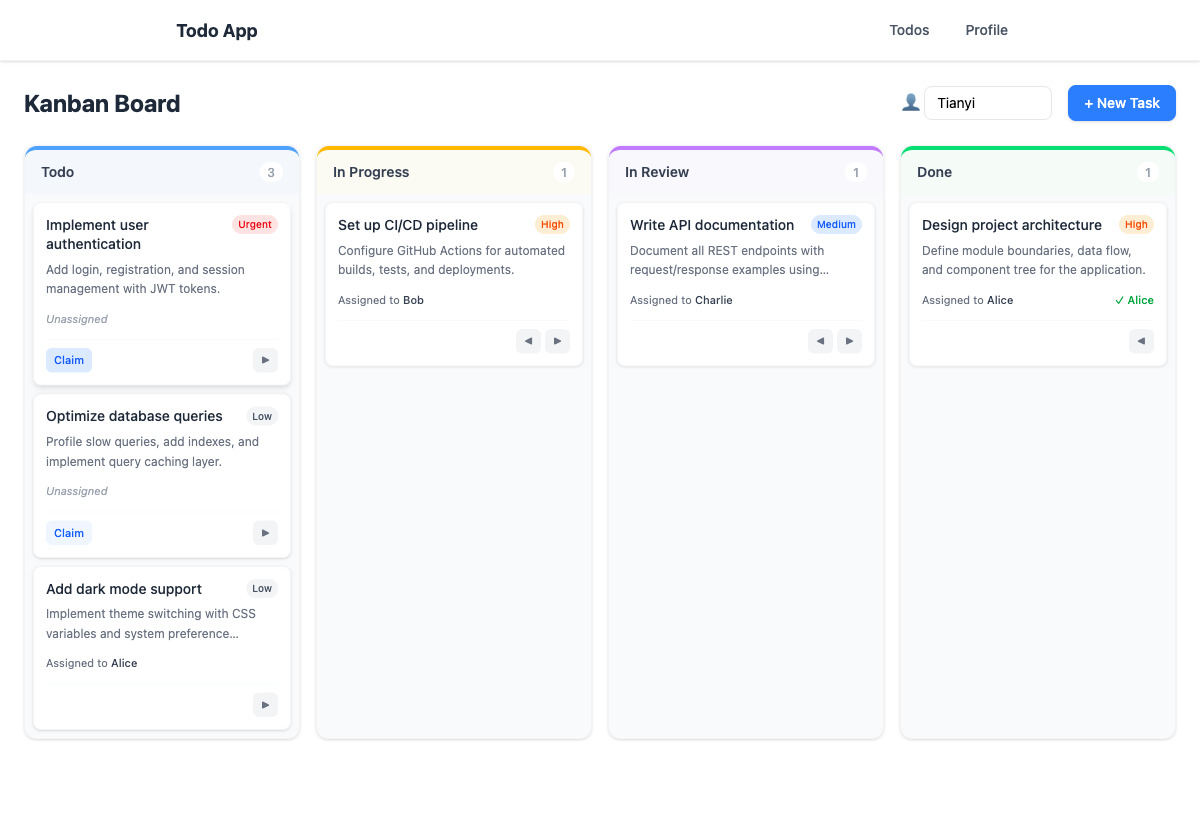
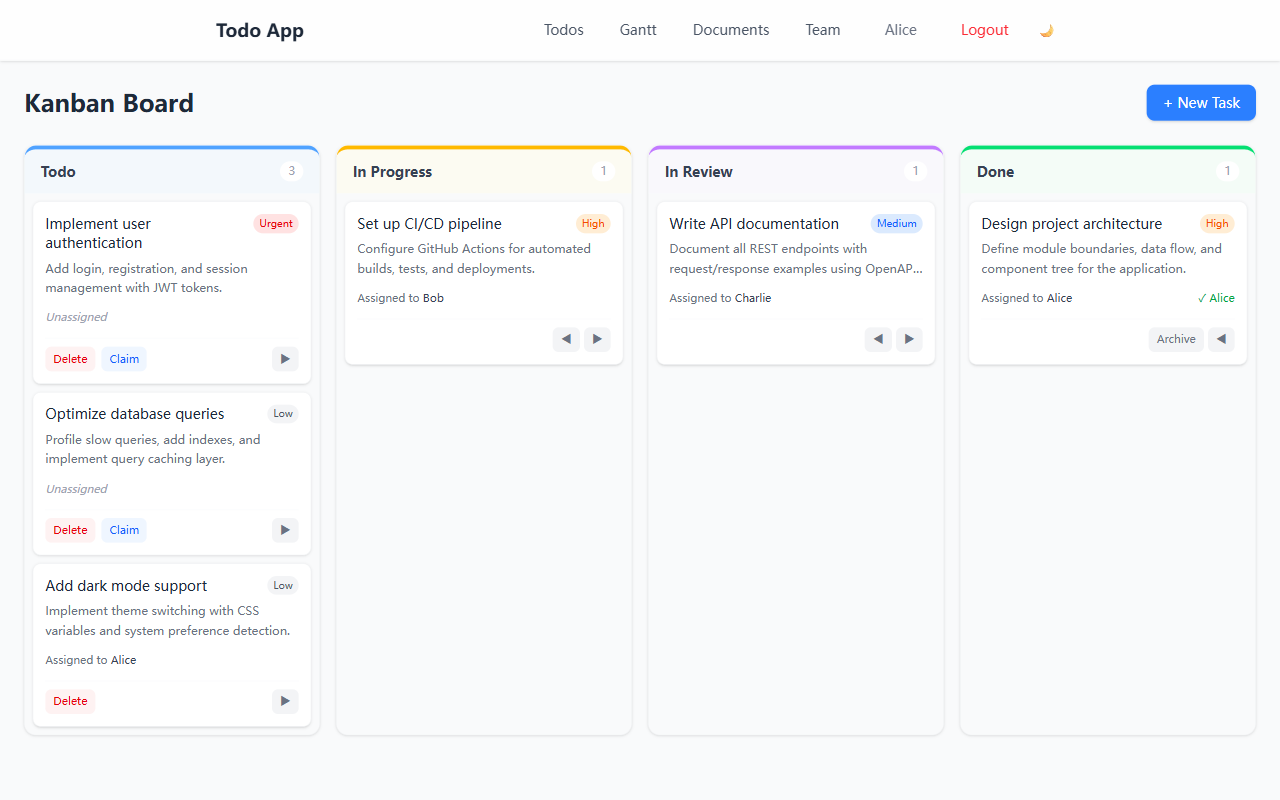
docs: refactor README.md

diff --git a/README.md b/README.md
@@ -1,59 +1,151 @@
-# Development
+# Todo List — 全栈看板应用
 
-Your new jumpstart project includes basic organization with an organized `assets` folder and a `components` folder.
-If you chose to develop with the router feature, you will also have a `views` folder.
+基于 Dioxus 0.7 构建的全栈（Fullstack）任务管理应用，支持看板视图、甘特图、团队协作和 Markdown 文档编辑。
 
-```
-project/
-├─ assets/ # Any assets that are used by the app should be placed here
-├─ src/
-│  ├─ main.rs # The entrypoint for the app. It also defines the routes for the app.
-│  ├─ components/
-│  │  ├─ mod.rs # Defines the components module
-│  │  ├─ hero.rs # The Hero component for use in the home page
-│  │  ├─ echo.rs # The echo component uses server functions to communicate with the server
-│  ├─ views/ # The views each route will render in the app.
-│  │  ├─ mod.rs # Defines the module for the views route and re-exports the components for each route
-│  │  ├─ blog.rs # The component that will render at the /blog/:id route
-│  │  ├─ home.rs # The component that will render at the / route
-├─ Cargo.toml # The Cargo.toml file defines the dependencies and feature flags for your project
-```
+## 功能特性
 
-### Automatic Tailwind (Dioxus 0.7+)
+- **看板视图** — 拖拽任务卡片在 "待办 / 进行中 / 审查中 / 已完成" 四列之间流转
+- **甘特图** — 按时间线可视化任务排期
+- **团队管理** — 成员目录，支持认领和分配任务
+- **Markdown 文档** — 类 Notion 的文档编辑器，支持表格、任务列表、删除线
+- **用户系统** — 注册 / 登录，JWT 鉴权，个人资料编辑
+- **暗色模式** — 一键切换，偏好持久化到 localStorage
 
-As of Dioxus 0.7, there no longer is a need to manually install tailwind. Simply `dx serve` and you're good to go!
+## 截图
 
-Automatic tailwind is supported by checking for a file called `tailwind.css` in your app's manifest directory (next to Cargo.toml). To customize the file, use the dioxus.toml:
+### 看板视图
 
-```toml
-[application]
-tailwind_input = "my.css"
-tailwind_output = "assets/out.css"
-```
+![看板视图](kanban-board-final.png)
 
-### Tailwind Manual Install
+### 团队管理
 
-To use tailwind plugins or manually customize tailwind, you can can install the Tailwind CLI and use it directly.
+![团队管理](team-page-screenshot.png)
 
-1. Install npm: https://docs.npmjs.com/downloading-and-installing-node-js-and-npm
-2. Install the Tailwind CSS CLI: https://tailwindcss.com/docs/installation/tailwind-cli
-3. Run the following command in the root of the project to start the Tailwind CSS compiler:
+## 技术栈
+
+| 层 | 技术 |
+| --- | --- |
+| 前端 | Dioxus 0.7 (WASM) + Tailwind CSS |
+| 后端 | Axum 0.8 (Dioxus Fullstack) |
+| 数据库 | SQLite (sqlx 0.8) |
+| 鉴权 | Argon2id 密码哈希 + JWT (HS256) |
+| Markdown | pulldown-cmark |
+
+## 本地开发
+
+### 前置要求
+
+- Rust 1.85+
+- wasm32-unknown-unknown target
 
 ```bash
-npx @tailwindcss/cli -i ./input.css -o ./assets/tailwind.css --watch
+rustup target add wasm32-unknown-unknown
 ```
 
-### Serving Your App
+### 安装 Dioxus CLI
 
-Run the following command in the root of your project to start developing with the default platform:
+```bash
+cargo install dioxus-cli --version 0.7.1
+```
+
+### 启动开发服务器
 
 ```bash
 dx serve --platform web
 ```
 
-To run for a different platform, use the `--platform platform` flag. E.g.
+浏览器打开 `http://localhost:8080` 即可。
+
+首次启动会自动创建 `todo_list.db` 数据库并填充种子数据：
+
+- 3 个用户：Alice / Bob / Charlie（密码均为 `password123`）
+- 6 个示例任务
+
+## Docker 一键部署
+
+适用于 Linux 服务器的傻瓜式部署，内置 Nginx 反向代理。
+
+### 1. 克隆代码
+
 ```bash
-dx serve --platform desktop
+git clone <your-repo-url> && cd todo_list
 ```
 
+### 2. 配置 JWT 密钥
 
+```bash
+echo "JWT_SECRET=$(openssl rand -base64 32)" > .env
+```
+
+### 3. 启动
+
+```bash
+docker compose up -d --build
+```
+
+首次构建约 10-15 分钟，后续增量构建会复用缓存。
+
+### 4. 访问
+
+浏览器打开 `http://<服务器IP>`，开始使用。
+
+### 日常运维
+
+```bash
+# 查看日志
+docker compose logs -f
+
+# 重启服务
+docker compose restart
+
+# 停止服务
+docker compose down
+
+# 备份数据库（SQLite 就是单个文件）
+cp data/todo_list.db data/backup-$(date +%Y%m%d).db
+```
+
+### 环境变量
+
+| 变量 | 说明 | 默认值 |
+| --- | --- | --- |
+| `JWT_SECRET` | JWT 签名密钥 | 硬编码默认值（生产环境务必修改） |
+| `DB_PATH` | SQLite 数据库文件路径 | `./todo_list.db` |
+
+### 架构
+
+```text
+浏览器 (:80)  →  Nginx  →  Dioxus Server (:8080, 容器内部)
+                               ├── Axum HTTP 服务
+                               ├── WASM 客户端分发
+                               └── SQLite (./data/todo_list.db)
+```
+
+## 项目结构
+
+```text
+src/
+├── main.rs              # 路由定义、App 入口、暗色模式上下文
+├── models.rs            # Task, User, Document 等数据模型
+├── backend.rs           # 服务端函数 (API 端点)
+├── auth.rs              # AuthSession 提取器、JWT 客户端工具
+├── server/
+│   ├── mod.rs           # 服务端模块导出
+│   ├── db.rs            # SQLite 连接池、迁移、种子数据
+│   └── auth.rs          # Argon2 哈希、JWT 签发/验证
+├── views/
+│   ├── navbar.rs        # 导航栏布局 + 暗色模式切换
+│   ├── todos.rs         # 看板主页
+│   ├── gantt.rs         # 甘特图页
+│   ├── documents.rs     # Markdown 文档编辑器
+│   ├── team.rs          # 团队成员目录
+│   ├── profile.rs       # 个人资料编辑
+│   ├── login.rs         # 登录表单
+│   ├── register.rs      # 注册表单
+│   ├── require_auth.rs  # 路由鉴权守卫
+│   └── page_not_found.rs
+└── components/
+    ├── kanban_column.rs # 看板列组件
+    ├── task_card.rs     # 任务卡片组件
+    └── task_form.rs     # 新建任务表单
+```
